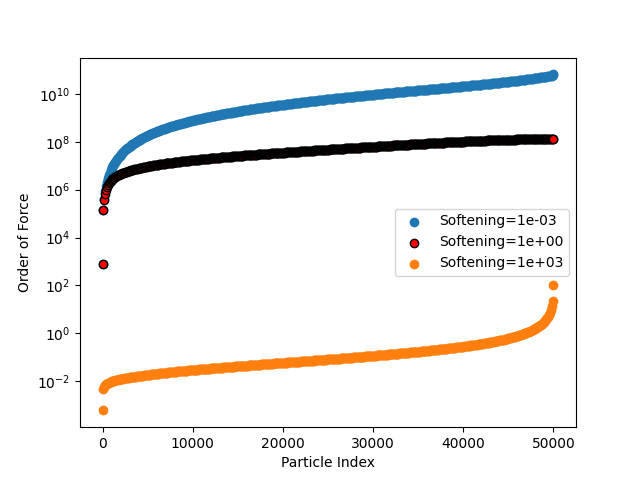
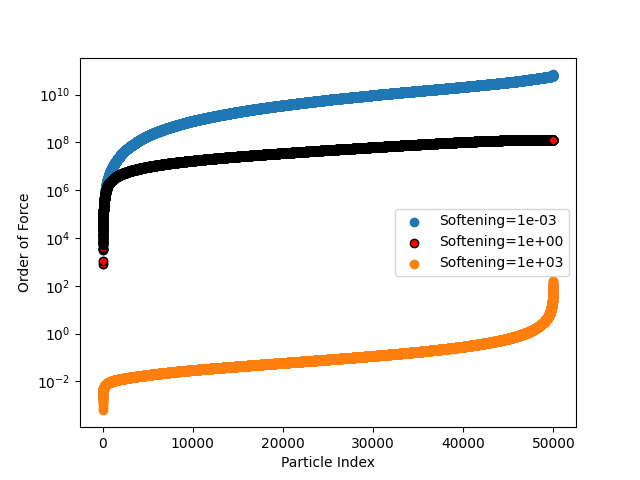
fixed the force calculation in n_body_shells.py to -GMm/r^2

diff --git a/n_body_project/n_body_shells.py b/n_body_project/n_body_shells.py
@@ -39,7 +39,7 @@ def max_radius(x_coordinates, y_coordinates, z_coordinates):
 	@param z_coordinates: z coordinates as array
 	@type z_coordinates: np.ndarray
 	@return: tuple of the absolute radii of the particles and the overall absolute radius of the system
-	@rtype: tuple
+	@rtype: tuple[np.ndarray, float]
 	"""
 
 	radii = np.sqrt(x_coordinates ** 2 + y_coordinates ** 2 + z_coordinates ** 2)
@@ -61,14 +61,15 @@ def split_data_into_shells(x_coordinates, y_coordinates, z_coordinates, n_shells
 	@param n_shells: the number of shells to be generated
 	@type n_shells: int
 	@return: tuple of the index of particles in shell, the shell boundaries, the shell thickness
-	@rtype: tuple
+	@rtype: tuple[np.ndarray, np.ndarray, np.ndarray]
 	"""
 
 	# Calculate the maximal radius
 	radii, maximal_radius = max_radius(x_coordinates, y_coordinates, z_coordinates)
 
-	start_exp = math.floor(math.log10(np.min(radii)))
-	end_exp = math.ceil(math.log10(np.max(radii)))
+	# Calculate the start and end exponent, so that it makes sense when splitting the data into shells
+	start_exp = math.floor(np.log10(np.min(radii)))
+	end_exp = math.ceil(np.log10(np.max(radii)))
 
 	# get logarithmically distributed shells
 	# add + 1 to generate the number of shells specified
@@ -88,7 +89,7 @@ def split_data_into_shells(x_coordinates, y_coordinates, z_coordinates, n_shells
 		# Find indices of particles within the current shell
 		lower_bound = shell_boundaries[i]
 		upper_bound = shell_boundaries[i + 1]
-		in_shell = np.where((radii >= lower_bound) & (radii <= upper_bound))
+		in_shell = np.where((radii > lower_bound) & (radii <= upper_bound))
 		in_shells.append(in_shell[0])  # Use [0] to get the actual indices
 
 	# get the maximal length of the arrays with the shell radii
@@ -106,6 +107,7 @@ def split_data_into_shells(x_coordinates, y_coordinates, z_coordinates, n_shells
 	return in_shells_new, shell_boundaries, shell_thickness
 
 
+# TODO delete this at the end if it is still not needed
 def find_shell_index(r, shell_boundaries):
 	# This function finds the shell index for a given radius 'r'
 	# It associates a radius with a shell
@@ -116,10 +118,19 @@ def find_shell_index(r, shell_boundaries):
 	return -1  # Return -1 if the radius is outside all shells
 
 
-def rho_of_shell(shell_indices, shell_boundaries, part_ind, masses):
+def rho_of_shell(shell_indices, shell_boundaries, masses):
 	"""Find the density of a shell, calculate the total_mass of each shell
 	and the volume of each shell, and the density is then rho = total_mass / V
 	per shell
+
+	@param shell_indices: indices of particles in the according shell
+	@type shell_indices: np.ndarray
+	@param shell_boundaries: boundaries of the shells
+	@type shell_boundaries: np.ndarray
+	@param masses: masses of the particles
+	@type masses: np.ndarray
+	@return: rho of the shells
+	@rtype: np.ndarray
 	"""
 
 	# shell_indices is an array, that contains arrays(= shells)
@@ -171,12 +182,13 @@ def shell_masses(rho_of_shells, shell_boundaries, shell_thickness):
 
 	masses_of_spheres = []
 
-	shell_boundaries = shell_boundaries[:]
+	#shell_boundaries = shell_boundaries[:]
 
 	# calculate the density for each shell
 	# QUESTION even when the innermost shell boundary is not 0 anymore because of logspace, can I still sum up from the first and not 0th element?
 	# I would say yes, the innermost boundary is the starting point, needed to create shells but not a radius
 	# I need to sum up towards to
+	# calculate the density for each shell
 	shell_density_masses = shell_thickness * shell_boundaries[1:] ** 2 * rho_of_shells
 
 	# QUESTION this includes the mass density of the shell the particle is in
@@ -190,7 +202,9 @@ def shell_masses(rho_of_shells, shell_boundaries, shell_thickness):
 	for i in range(len(shell_boundaries)-1):
 		# sum the densities up to the desired shell according to the
 		# formula in galactic dynamics
-		summe = 4 * np.pi * np.sum(shell_density_masses[:i+1])
+		# sum not including the shell the particle is in
+		# each shell mass contains only the mass up to that shell
+		summe = 4 * np.pi * np.sum(shell_density_masses[:i])
 		masses_of_spheres.append(summe)
 
 	# calculate the masses enclosed in each sphere bounded by a shell_boundary
@@ -207,7 +221,7 @@ def shell_masses(rho_of_shells, shell_boundaries, shell_thickness):
 	return masses_of_spheres
 
 
-def forces_when_looking_at_shells(shell_masses, shell_boundaries, x_coordinates, y_coordinates, z_coordinates):
+def forces_when_looking_at_shells(shell_masses, shell_boundaries, x_coordinates, y_coordinates, z_coordinates, masses):
 	"""Calculate the forces on a particle when subdividing the system into shells
 	and looking at the inner shell for the force"""
 
@@ -241,17 +255,21 @@ def forces_when_looking_at_shells(shell_masses, shell_boundaries, x_coordinates,
 		# to get the inner shell
 		shell_ind = np.max(np.where(radii[particle] <= shell_boundaries))
 		#print(shell_ind)
-		#if shell_ind >= 0:
-			#count += 1
-	#print(count)
+		if shell_ind > -1:
+			count += 1
 
-		if shell_ind > 0:
-			force = - (G * shell_masses[shell_ind]) / radii[particle] ** 2 * unit_vector[particle]
+
+		# the shell index of a shell without any particle is -1
+		if shell_ind > -1:
+			force = - ((G * shell_masses[shell_ind] * masses[particle]) / radii[particle] ** 2) * unit_vector[particle]
+			#print(force)
 			abs_force = np.linalg.norm(force)
 			#print(abs_force)
 			absolute_forces.append(abs_force)
 		else:
-			absolute_forces.append(0)
+			#absolute_forces.append(0)
+			continue
+		print(count)
 
 	absolute_forces = np.array(absolute_forces)
 	# print("here")

diff --git a/n_body_project/n_body_forces.py b/n_body_project/n_body_forces.py
@@ -84,8 +84,8 @@ def half_mass_radius(x_coordinate, y_coordinate, z_coordinate, mass):
 	@type z_coordinate: np.ndarray
 	@param mass: total_mass of particles as an array
 	@type mass: np.ndarray
-	@return: Half total_mass radius
-	@rtype: float
+	@return: Half mass radius and half mass
+	@rtype: tuple[float, float]
 
 	"""
 
@@ -246,18 +246,20 @@ def softening_plot(soft_values, particle_number, mean_int, mass, x_cord, y_cord,
 	for i in soft_values:
 		softening[:] = i
 		F_abs, r_abs, accel = direct_force_calculation(mass, x_cord, y_cord, z_cord, softening)
-		F_abs_sort = np.rec.fromarrays([F_abs, r_abs], dtype=np.dtype([('F_abs', np.float32), ('r_abs', np.float32)])) # find the permutation to sort r_abs fro lowest to highest
+		F_abs_sort = np.rec.fromarrays([F_abs, r_abs], dtype=np.dtype([('F_abs', np.float64), ('r_abs', np.float64)])) # find the permutation to sort r_abs fro lowest to highest
 		F_abs_sort.sort()
 
+		# extract the two sorted arrays to use them for plotting
 		r_abs_sort = F_abs_sort.r_abs
 		F_abs_sort = F_abs_sort.F_abs
 
 		if i / (10 ** math.floor(math.log10(mean_int))) == 1:
-			ax_soft.scatter(par[::100], F_abs_sort[::100], color="red", edgecolors='black', label=f'Softening={i:.0e}')
-			ax_rad.scatter(r_abs_sort[::100], F_abs_sort[::100], color="red", edgecolors='black', label=f'Softening={i:.0e}')
+			# give the softening of order mean inter particle distance red as a color
+			ax_soft.scatter(par, F_abs_sort, color="red", edgecolors='black', label=f'Softening={i:.0e}')
+			ax_rad.scatter(r_abs_sort, F_abs_sort, color="red", edgecolors='black', label=f'Softening={i:.0e}')
 		else:
-			ax_soft.scatter(par[::100], F_abs_sort[::100], label=f'Softening={i:.0e}')
-			ax_rad.scatter(r_abs_sort[::100], F_abs_sort[::100], label=f'Softening={i:.0e}')
+			ax_soft.scatter(par, F_abs_sort, label=f'Softening={i:.0e}')
+			ax_rad.scatter(r_abs_sort, F_abs_sort, label=f'Softening={i:.0e}')
 
 	ax_soft.legend()
 	#plt.xscale("log")

diff --git a/n_body_project/main.py b/n_body_project/main.py
@@ -59,14 +59,14 @@ plt.close(soft_plot)
 #plt.close(fig)
 
 # calculate the forces depending on the shell
-shell_ind, shell_bound, shell_thickness = split_data_into_shells(x_cord, y_cord, z_cord, 1000)
-rhoos = rho_of_shell(shell_ind, shell_bound, mass, particle_number)
+shell_ind, shell_bound, shell_thickness = split_data_into_shells(x_cord, y_cord, z_cord, 50)
+rhoos = rho_of_shell(shell_ind, shell_bound, mass)
 masses_of_shells = shell_masses(rhoos, shell_bound, shell_thickness)
 
-forces_on_particles, radii = forces_when_looking_at_shells(masses_of_shells, shell_bound, x_cord, y_cord, z_cord)
+forces_on_particles, radii = forces_when_looking_at_shells(masses_of_shells, shell_bound, x_cord, y_cord, z_cord, mass)
 
 # sort the forces and the radii
-F_abs_sort = np.rec.fromarrays([forces_on_particles, radii], dtype=np.dtype([('F_abs', np.float32), ('r_abs', np.float32)]))  # find the permutation to sort r_abs fro lowest to highest
+F_abs_sort = np.rec.fromarrays([forces_on_particles, radii], dtype=np.dtype([('F_abs', np.float64), ('r_abs', np.float64)]))  # find the permutation to sort r_abs fro lowest to highest
 F_abs_sort.sort()
 
 r_abs_sort = F_abs_sort.r_abs
@@ -74,7 +74,7 @@ F_abs_sort = F_abs_sort.F_abs
 
 fig, ax = rad_plot
 
-ax.scatter(radii[::100], forces_on_particles[::100], color="green", edgecolors='black', label=f'Shell forces')
+ax.scatter(radii, forces_on_particles, color="green", edgecolors='black', label=f'Shell forces')
 ax.legend()
 fig.savefig("n_body_project/plots/rad.png")
 plt.close(fig)
